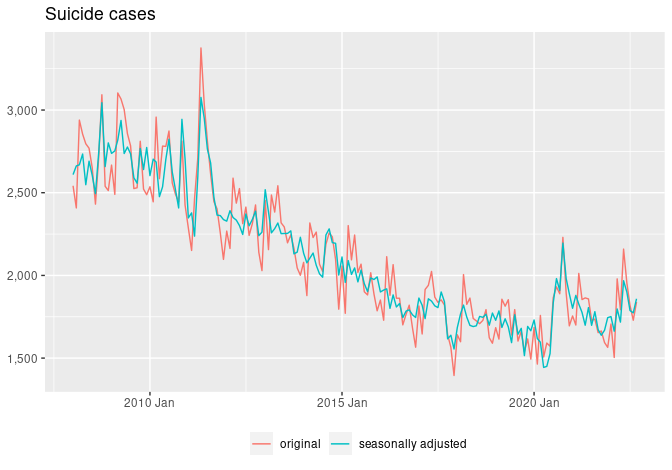
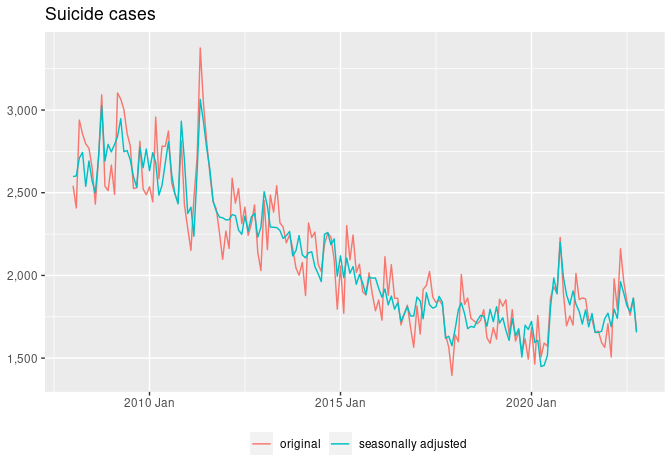
revised October 2022 cases

Changed region(s): [[0.0938, 0.1191, 0.9688, 0.8043], [0.75, 0.834, 0.8438, 0.8638], [0.4688, 0.834, 0.5625, 0.8638]]

diff --git a/README.md b/README.md
@@ -3,18 +3,18 @@ Japan suicide cases reported by National Police Agency
 Mitsuo Shiota
 2020-12-19
 
--   <a href="#motivation" id="toc-motivation">Motivation</a>
--   <a href="#get-data-from-national-police-agency"
-    id="toc-get-data-from-national-police-agency">Get data from National
-    Police Agency</a>
--   <a href="#replicate-the-chart" id="toc-replicate-the-chart">Replicate
-    the chart</a>
--   <a
-    href="#suicide-cases-are-bouncing-back-but-not-as-fast-as-the-program-suggests"
-    id="toc-suicide-cases-are-bouncing-back-but-not-as-fast-as-the-program-suggests">Suicide
-    cases are bouncing back, but not as fast as the program suggests</a>
+- <a href="#motivation" id="toc-motivation">Motivation</a>
+- <a href="#get-data-from-national-police-agency"
+  id="toc-get-data-from-national-police-agency">Get data from National
+  Police Agency</a>
+- <a href="#replicate-the-chart" id="toc-replicate-the-chart">Replicate
+  the chart</a>
+- <a
+  href="#suicide-cases-are-bouncing-back-but-not-as-fast-as-the-program-suggests"
+  id="toc-suicide-cases-are-bouncing-back-but-not-as-fast-as-the-program-suggests">Suicide
+  cases are bouncing back, but not as fast as the program suggests</a>
 
-Updated: 2022-10-29
+Updated: 2022-11-19
 
 ## Motivation
 
